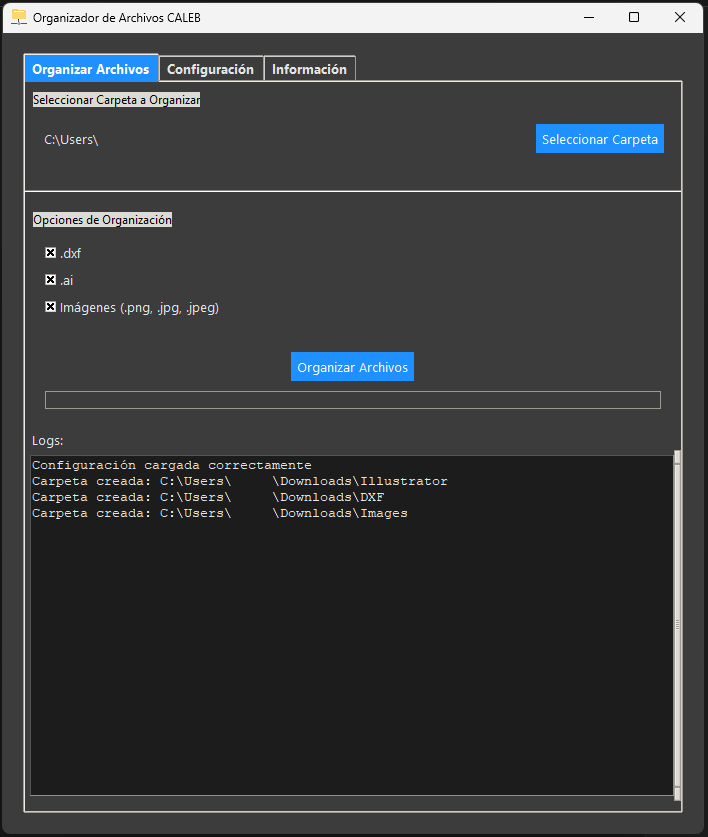
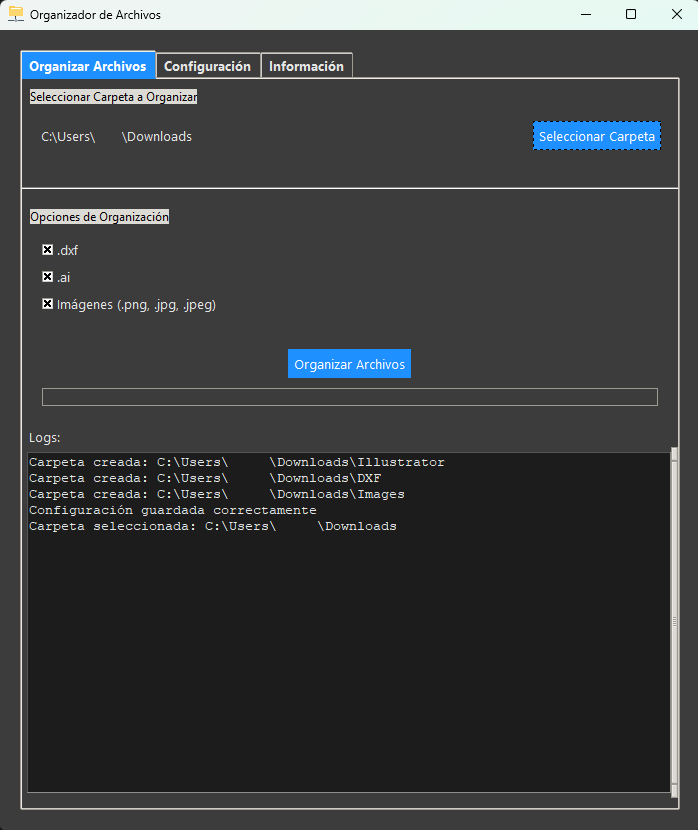
Update

Changed region(s): [[0.0, 0.0, 1.0, 1.0], [0.4212, 0.4217, 0.6017, 0.4819]]

diff --git a/README.md b/README.md
@@ -2,7 +2,7 @@
 
 ![Organizador de Archivos CALEB](https://github.com/el1an-c0de/organizador_archivos_CALEB/blob/main/blob/main/thumbnail.png)
 
-**Organizador de Archivos** es una aplicación de escritorio desarrollada en Python utilizando la biblioteca Tkinter. Esta herramienta permite a los usuarios de la empresa CALEB organizar sus archivos de manera eficiente en carpetas específicas basadas en extensiones y términos personalizados. Ideal para mantener ordenados proyectos de diseño, documentos, imágenes y más.
+**Organizador de Archivos** es una aplicación de escritorio desarrollada en Python utilizando la biblioteca Tkinter. Esta herramienta permite a los usuarios organizar sus archivos de manera eficiente en carpetas específicas basadas en extensiones y términos personalizados. Ideal para mantener ordenados proyectos de diseño, documentos, imágenes y más.
 
 ## 📋 Características
 
